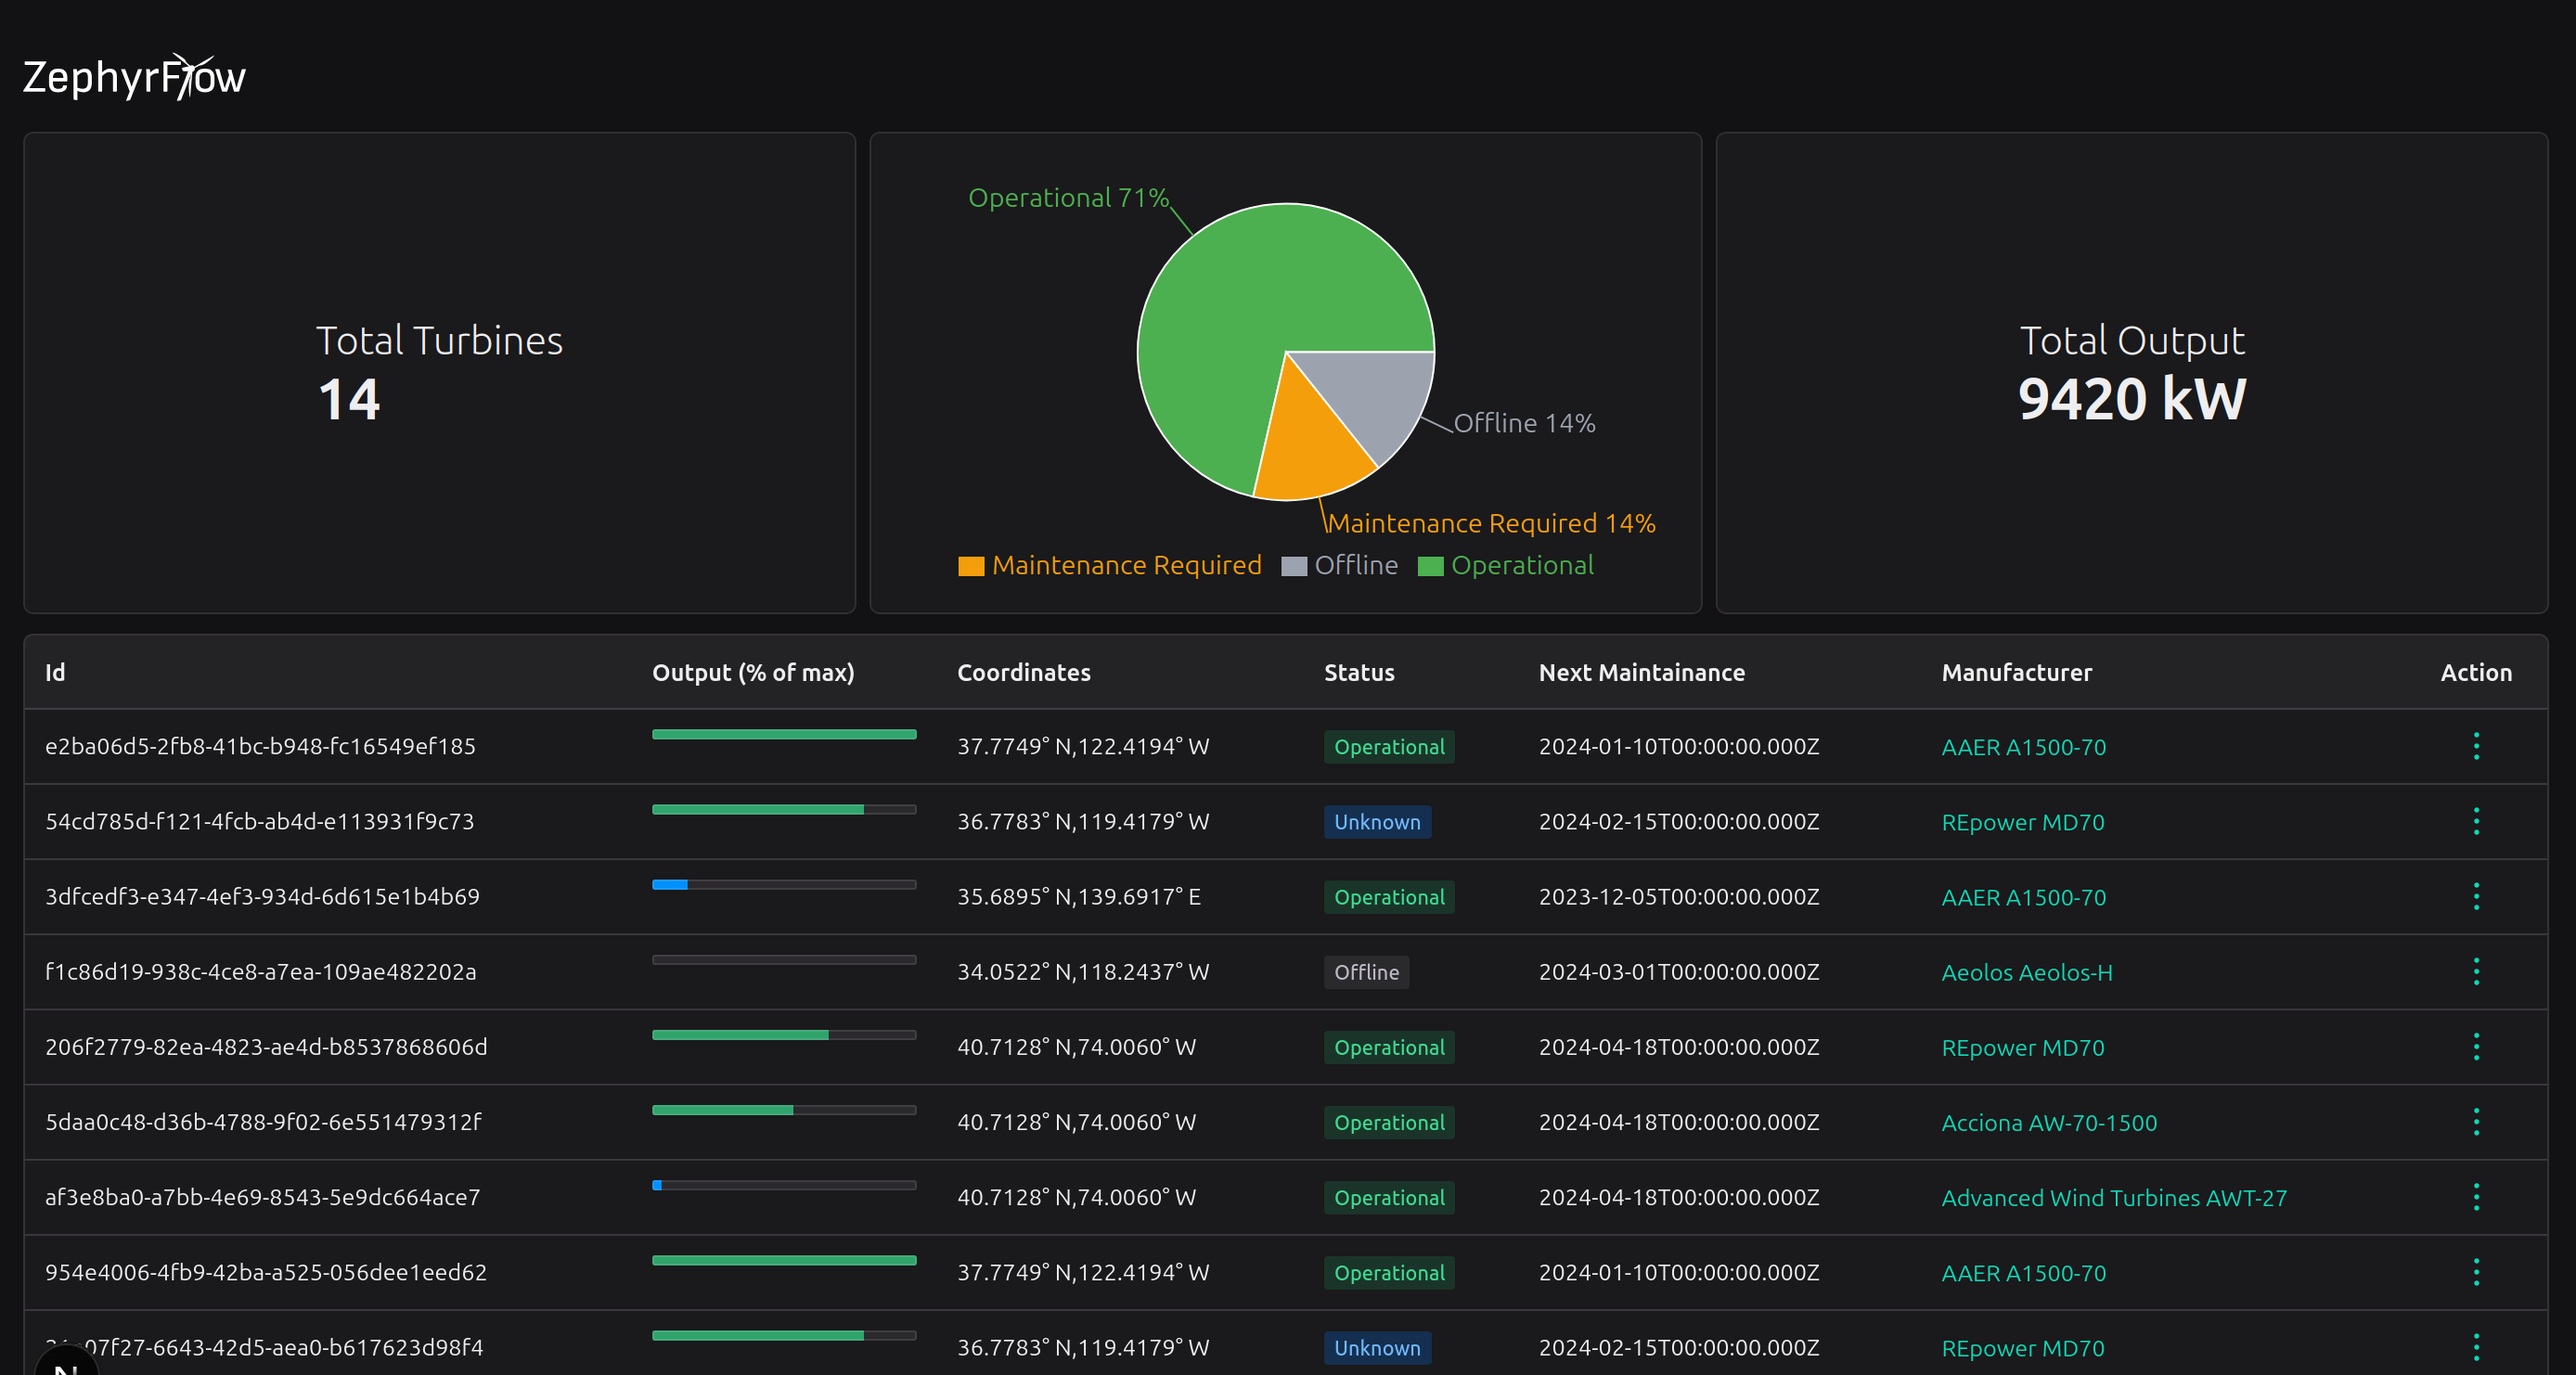
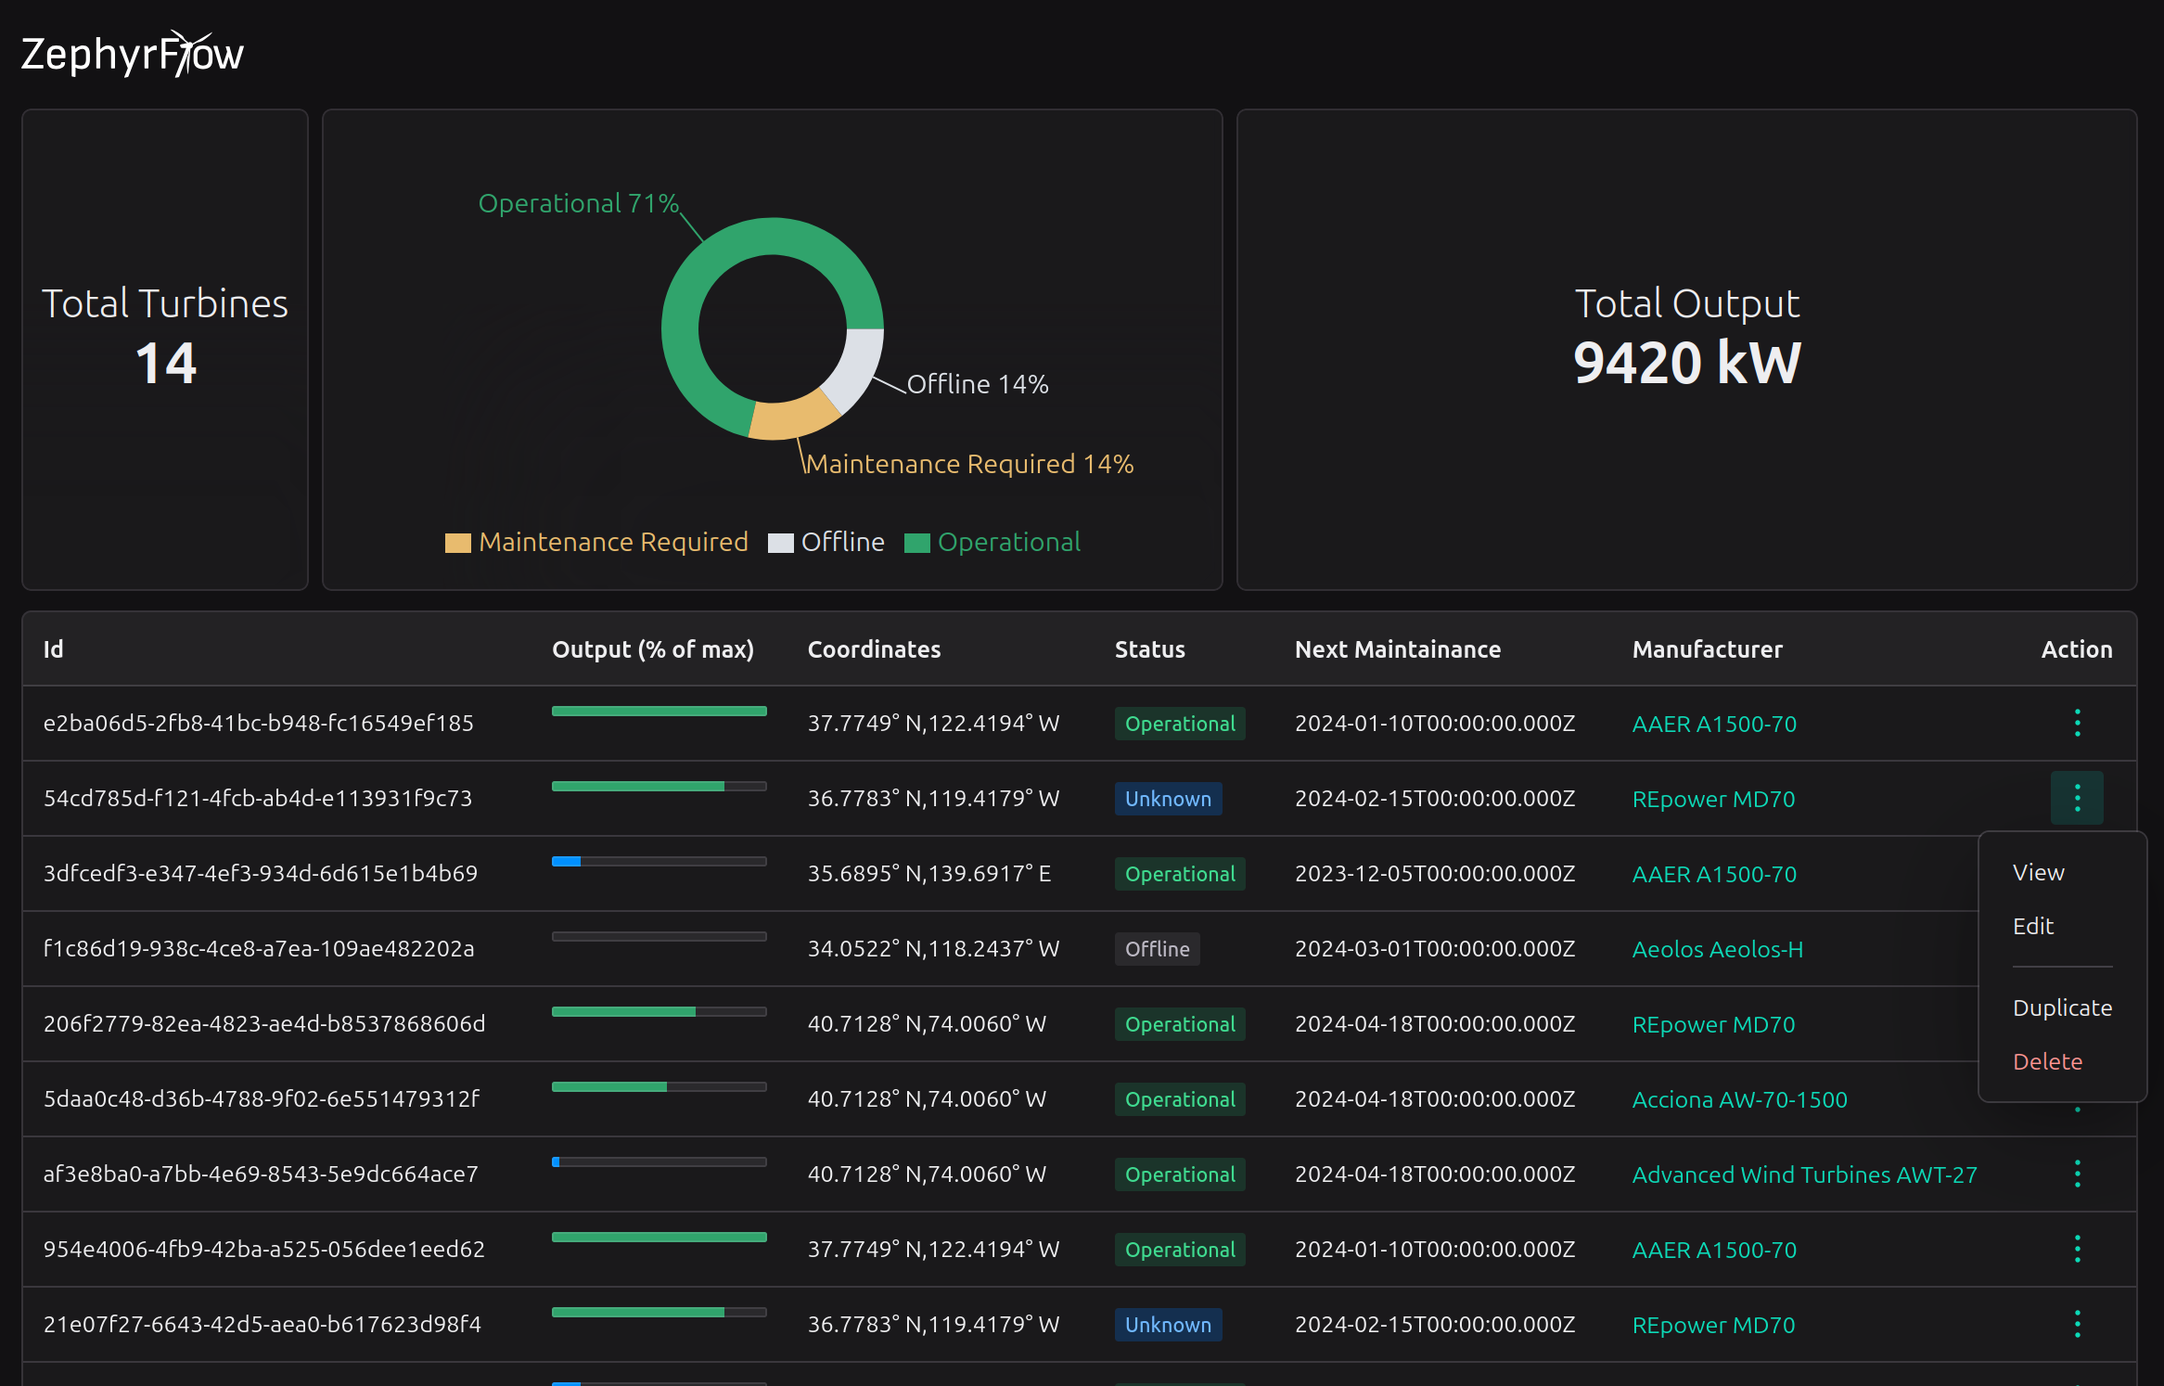
update charts

diff --git a/src/components/dataviz/statusPie.tsx b/src/components/dataviz/statusPie.tsx
@@ -3,8 +3,8 @@ import { Card, Flex, Heading, Text } from "@radix-ui/themes";
 import React from "react";
 import { PieChart, Pie, Tooltip, Legend, ResponsiveContainer } from "recharts";
 
-const COLORS = ["#4CAF50", "#F59E0B", "#9CA3AF", "#EF4444"];
-
+const COLORS = ["#30a46c", "#e8bb6e", "#dce0e6", "#EF4444"];
+const PIE_HEIGHT = 260;
 const GET_TURNBINE_STATUS_AND_OUTPUT = gql`
   query GetTurbineStatusAndOutput {
     turbines {
@@ -46,18 +46,19 @@ export default function TurbineStatusPie() {
     >
       <Card
         variant="surface"
-        className="flex flex-col items-center justify-center gap-4 padding-4 h-[260px] flex-1"
+        className={`flex flex-col items-center justify-center gap-4 padding-4 h-[${PIE_HEIGHT}px] `}
       >
-        <div>
-          <Heading weight="light">Total Turbines</Heading>
-          <Text size="8" weight="bold" mb="4">
-            {data.turbines.length}
-          </Text>
-        </div>
+        <Heading weight="light">Total Turbines</Heading>
+        <Text size="8" weight="bold" mb="4">
+          {data.turbines.length}
+        </Text>
       </Card>
-      <Card variant="surface" style={{ height: 260, flex: 1, minWidth: 0 }}>
+      <Card
+        variant="surface"
+        style={{ height: PIE_HEIGHT, flex: 1, minWidth: 0 }}
+      >
         <ResponsiveContainer>
-          <PieChart>
+          <PieChart style={{ outline: "none" }}>
             <Pie
               data={pieChartData}
               dataKey="value"
@@ -65,7 +66,9 @@ export default function TurbineStatusPie() {
               isAnimationActive={true}
               cx="50%"
               cy="50%"
-              outerRadius={80}
+              stroke="0"
+              outerRadius={60}
+              innerRadius={40}
               label={({ name, percent }) =>
                 `${name} ${Math.round((percent ?? 0) * 100)}%`
               }
@@ -78,19 +81,17 @@ export default function TurbineStatusPie() {
 
       <Card
         variant="surface"
-        className="flex flex-col items-center justify-center gap-4 padding-4 h-[260px] flex-1"
+        className={`flex flex-col items-center justify-center gap-4 padding-4 h-[${PIE_HEIGHT}px] flex-1`}
       >
-        <div className="text-center">
-          <Heading weight="light">Total Output</Heading>
-          <Text size="8" weight="bold" mb="4">
-            {data.turbines.reduce(
-              (total: number, turbine: { powerOutput: number }) =>
-                total + turbine.powerOutput,
-              0,
-            )}{" "}
-            kW
-          </Text>
-        </div>
+        <Heading weight="light">Total Output</Heading>
+        <Text size="8" weight="bold" mb="4">
+          {data.turbines.reduce(
+            (total: number, turbine: { powerOutput: number }) =>
+              total + turbine.powerOutput,
+            0,
+          )}{" "}
+          kW
+        </Text>
       </Card>
     </Flex>
   );
